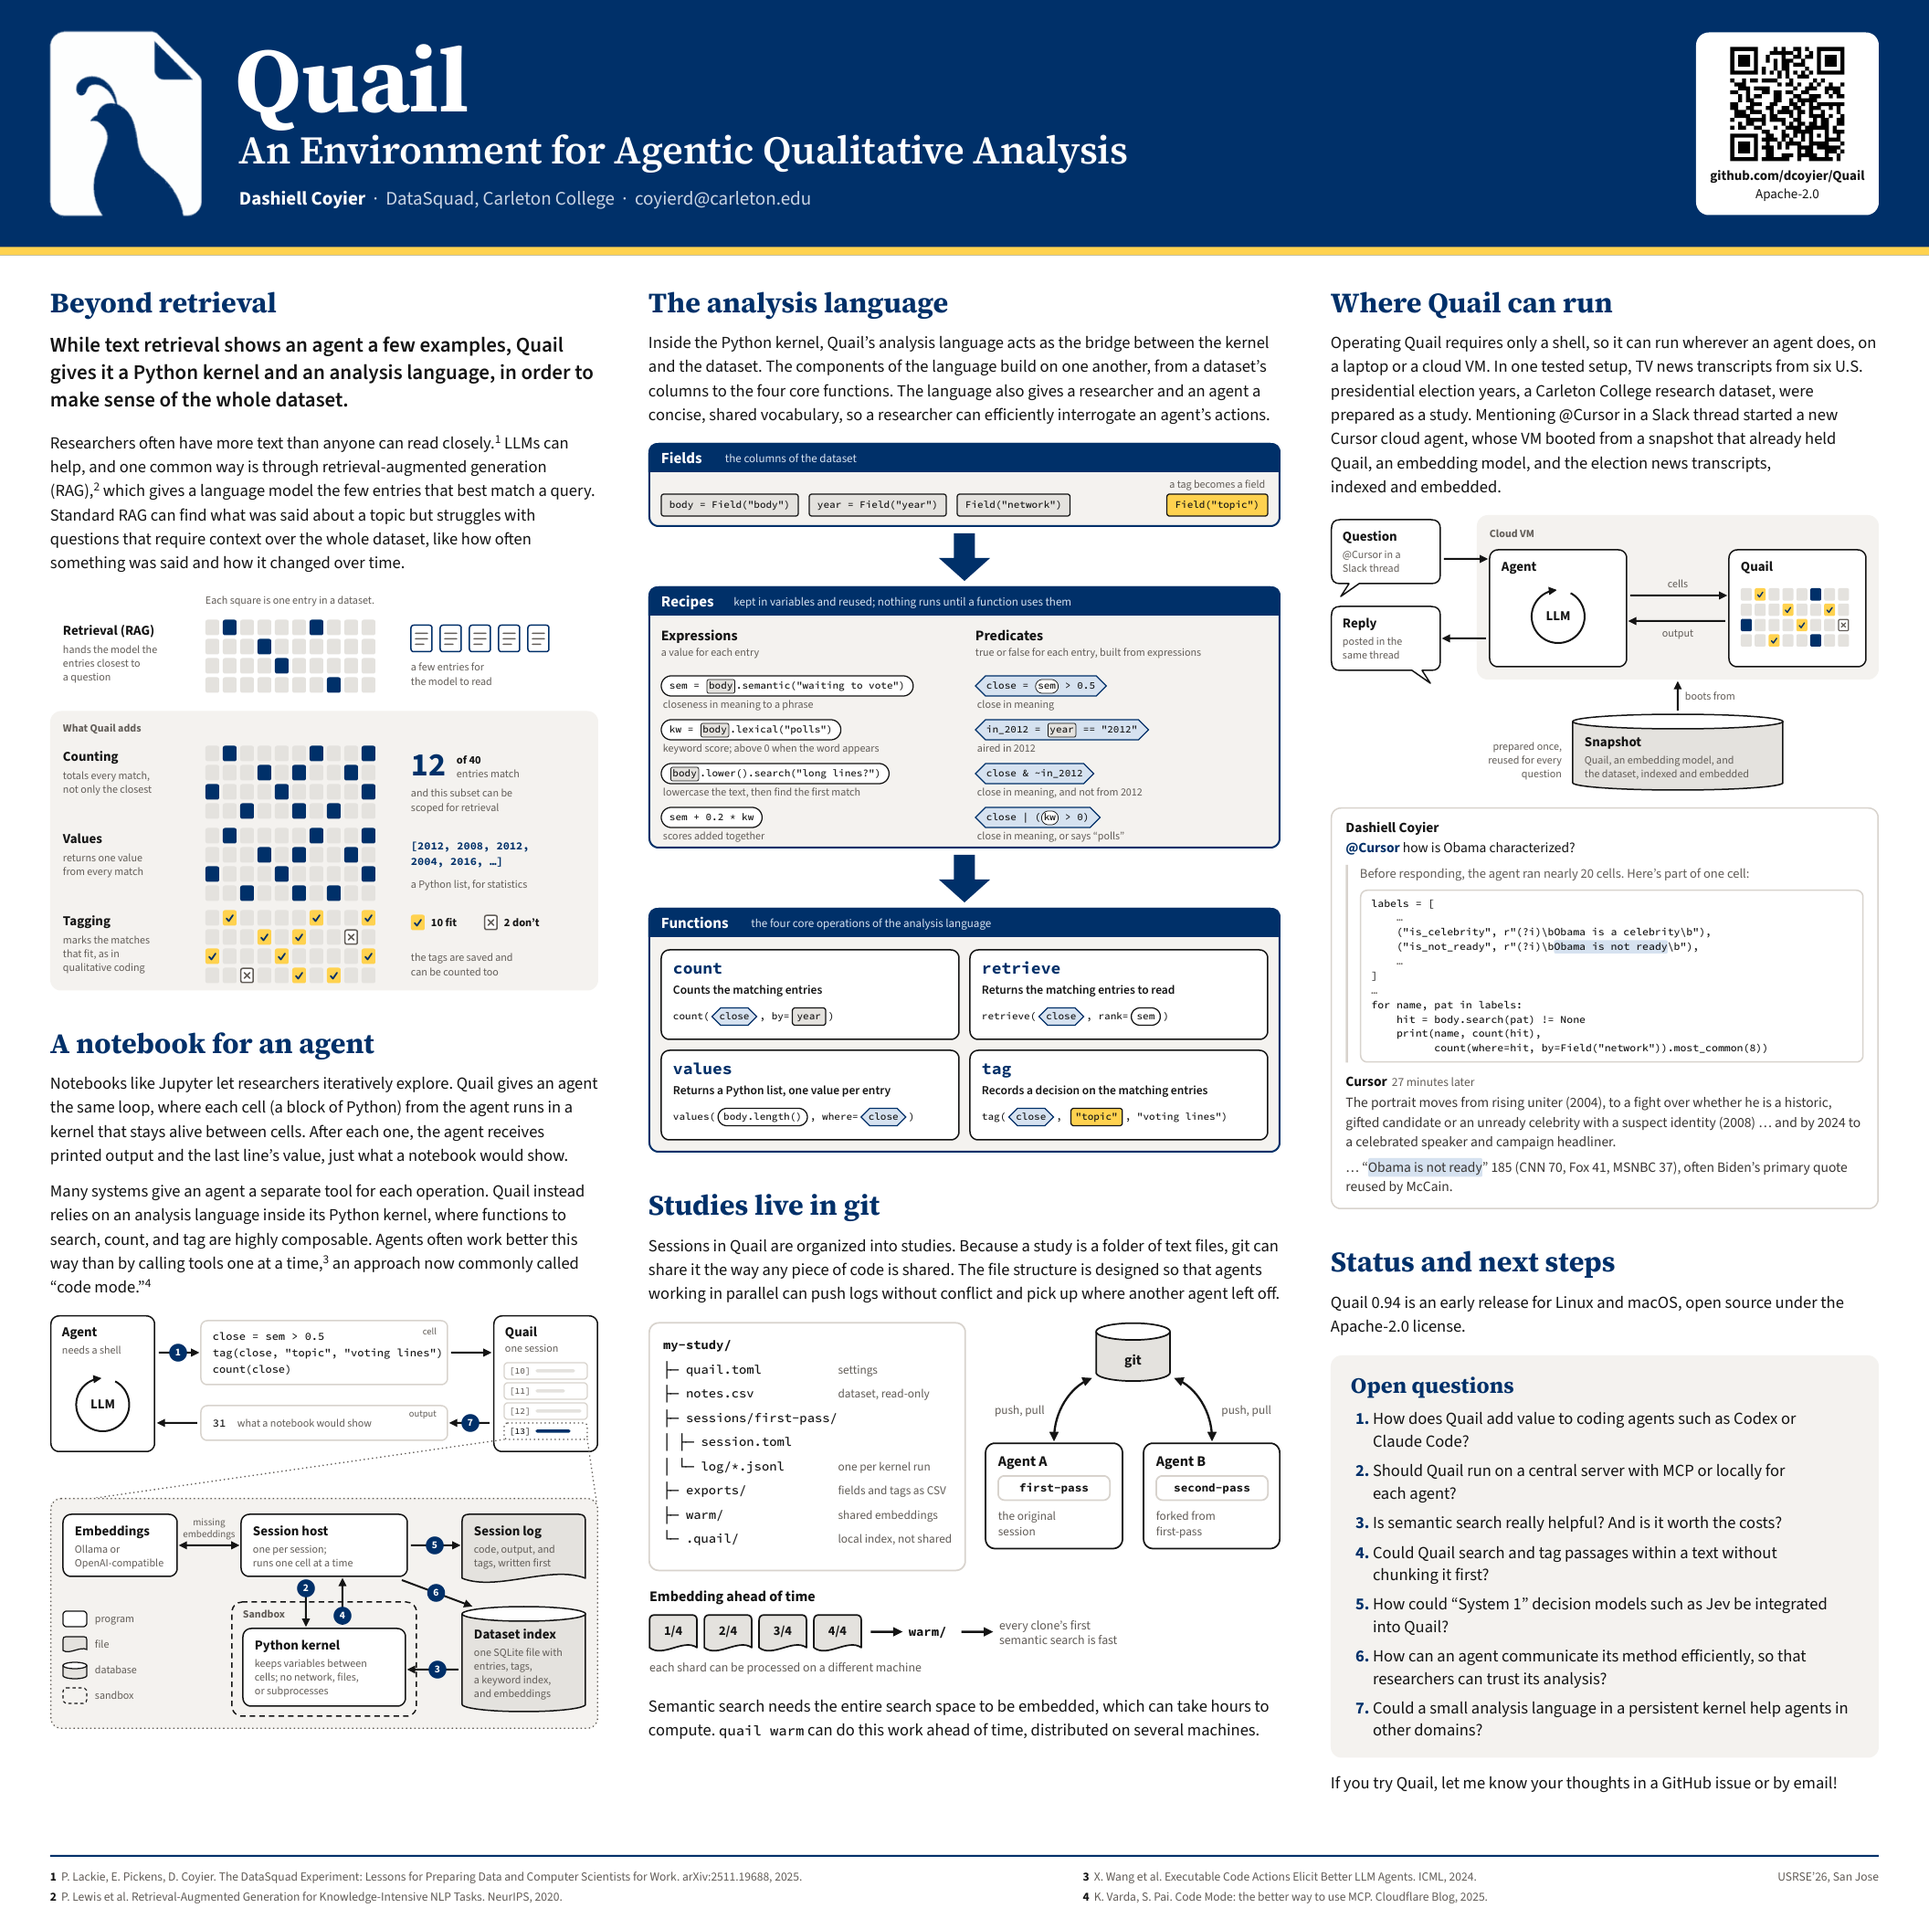
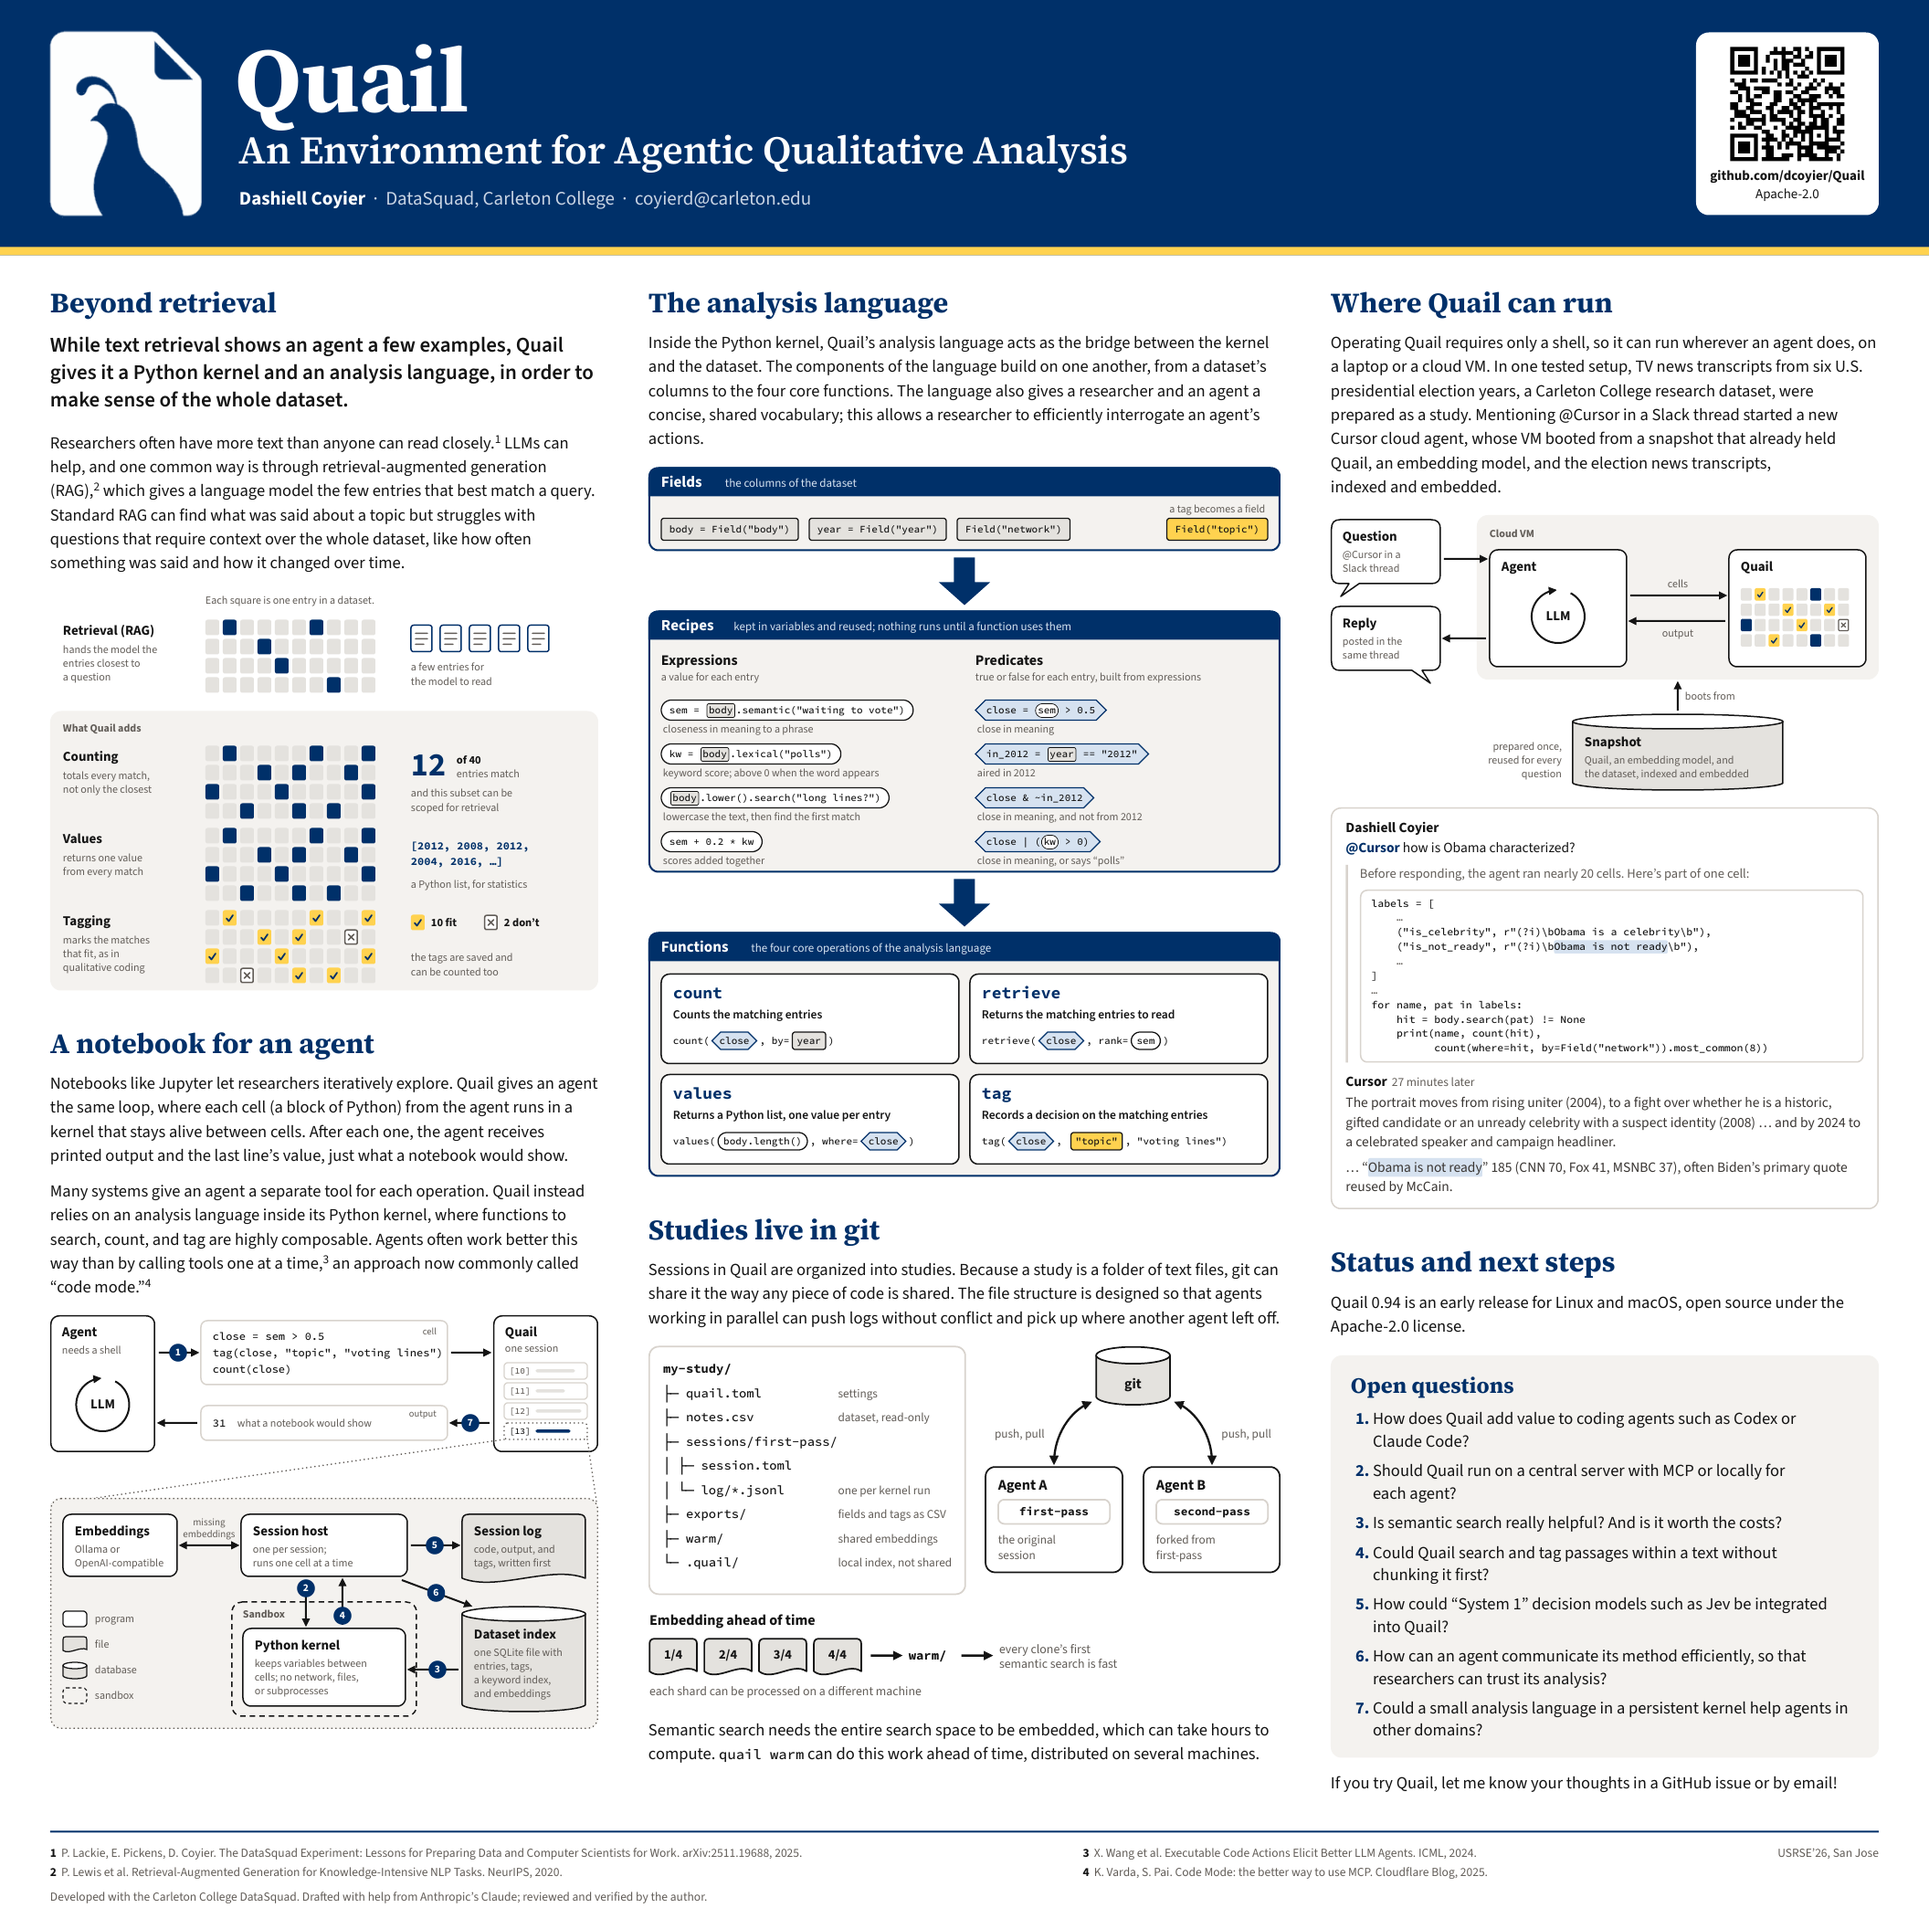
Add an acknowledgments line to the footer
Credit the DataSquad and disclose AI assistance under the references,
and restore "; this allows a researcher to" in the language paragraph.

Claude-Session: https://claude.ai/code/session_01ChZ8DmmKvsKSV4JFVieZLU

diff --git a/poster/poster.html b/poster/poster.html
@@ -44,7 +44,7 @@
 
 <section id="language">
   <h2>The analysis language</h2>
-  <p>Inside the Python kernel, Quail&rsquo;s analysis language acts as the bridge between the kernel and the dataset. The components of the language build on one another, from a dataset&rsquo;s columns to the four core functions. The language also gives a researcher and an agent a concise, shared vocabulary, so a researcher can efficiently interrogate an agent&rsquo;s actions.</p>
+  <p>Inside the Python kernel, Quail&rsquo;s analysis language acts as the bridge between the kernel and the dataset. The components of the language build on one another, from a dataset&rsquo;s columns to the four core functions. The language also gives a researcher and an agent a concise, shared vocabulary; this allows a researcher to efficiently interrogate an agent&rsquo;s actions.</p>
   <figure><img src="figures/language.svg" alt="The analysis language in three levels. Fields, the columns of the dataset, such as body, year and network, build recipes: expressions, a value for each entry, such as a semantic or keyword score, and predicates, true or false for each entry, such as close = sem &gt; 0.5. Recipes are kept in variables and nothing runs until a function uses them. They plug into four functions: count, retrieve, values and tag. Tag writes a new field, such as topic, that can be used like any other"></figure>
 </section>
 
@@ -116,6 +116,7 @@ for name, pat in labels:
     <li><span>4</span>K. Varda, S. Pai. Code Mode: the better way to use MCP. Cloudflare Blog, 2025.</li>
   </ol>
   <div class="right">USRSE&rsquo;26, San Jose</div>
+  <p class="ack">Developed with the Carleton College DataSquad. Drafted with help from Anthropic&rsquo;s Claude; reviewed and verified by the author.</p>
 </footer>
 
 </div>

diff --git a/poster/poster.css b/poster/poster.css
@@ -220,14 +220,15 @@ footer {
   border-top: 4px solid var(--blue);
   display: grid;
   grid-template-columns: 1fr auto;
-  gap: 80px;
+  gap: 14px 80px;
   font-size: 27px;
   line-height: 1.45;
   color: var(--muted);
 }
 footer ol { margin: 0; padding: 0; list-style: none; display: grid; grid-template-columns: repeat(2, auto); gap: 4px 60px; }
 footer ol li span { color: var(--ink); font-weight: 700; margin-right: 10px; }
-footer .right { text-align: right; }
+footer .right { text-align: right; grid-column: 2; grid-row: 1; }
+footer .ack { grid-column: 1 / -1; margin: 0; }
 .cell .fp { color: #A39E99; }
 .cell .note { font-family: var(--sans); font-size: 26px; font-weight: 700; color: var(--ink); }
 .cell .note::before { content: "\2190\00a0"; font-family: var(--mono); }
